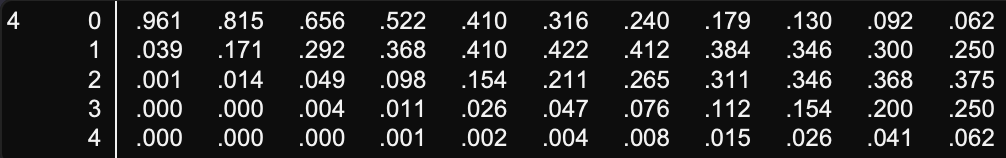
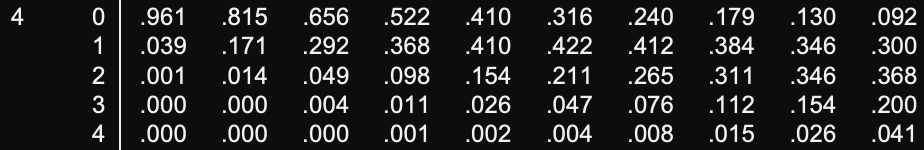
Last edit to hw1

diff --git a/HW#1/Binomial_distribution.html b/HW#1/Binomial_distribution.html
@@ -36,36 +36,31 @@
         </div>
         <pre id="code"></pre>
         <br>
-        <img src="table.png" width="700" height="450">
+        <img src="table.png" width="700" height="350">
     </div>
 </body>
     <script>
-        var probability_range=[	0.05,0.1,0.15,0.2,0.25,0.3,0.35,0.4,0.45,0.5];
+        var probability_range=[	0.01,0.05,0.1,0.15,0.2,0.25,0.3,0.35,0.4,0.45];
         var amount_of_success=[0,1,2,3,4];
         var total_number_of_trials=4;
         function setTable(){
-            var result="Amount of trials : 4\n\n";
-            result+='probability:                 '
-            probability_range.forEach(probability=>result+=probability+'     ');
-            result+='\n\n';
-            for (let success_index=0; success_index<amount_of_success.length; success_index++){
-                
-                result+='Amount of success : '+amount_of_success[success_index]+'  ';
-
-                for(let probability_index=0; probability_index<probability_range.length;probability_index++){
-                    result+='   '+calculate(amount_of_success[success_index],probability_range[probability_index]).toFixed(4);
-                }
-                result+='\n';
-            }
-            table.innerText+=result;
-        }
+        var result="Amount of trials : 4\n\n";
+        result+='probability:                 ';
+        probability_range.forEach(probability=>result+=probability+'     ');
+        result+='\n\n';
+        for (let success_index=0; success_index<amount_of_success.length; success_index++){
+        result+='Amount of success : '+amount_of_success[success_index]+'  ';
+        for(let probability_index=0; probability_index<probability_range.length;probability_index++){
+        result+='   '+calculate(amount_of_success[success_index],probability_range[probability_index])
+        .toFixed(4);}
+        result+='\n';
+        }table.innerText+=result;}
 
         function calculate(success_rate,probability,total_trial=4){
-            console.log(success_rate+'  '+probability+'     '+total_trial)
-            let first=factorial(total_trial)/(factorial(success_rate)*factorial(total_trial-success_rate));
-            let prob=Math.pow(probability,success_rate);
-            let last=Math.pow((1-probability),(total_trial-success_rate));
-            return first*prob*last;
+        let first=factorial(total_trial)/(factorial(success_rate)*factorial(total_trial-success_rate));
+        let prob=Math.pow(probability,success_rate);
+        let last=Math.pow((1-probability),(total_trial-success_rate));
+        return first*prob*last;
         }
 
         function factorial(n){
